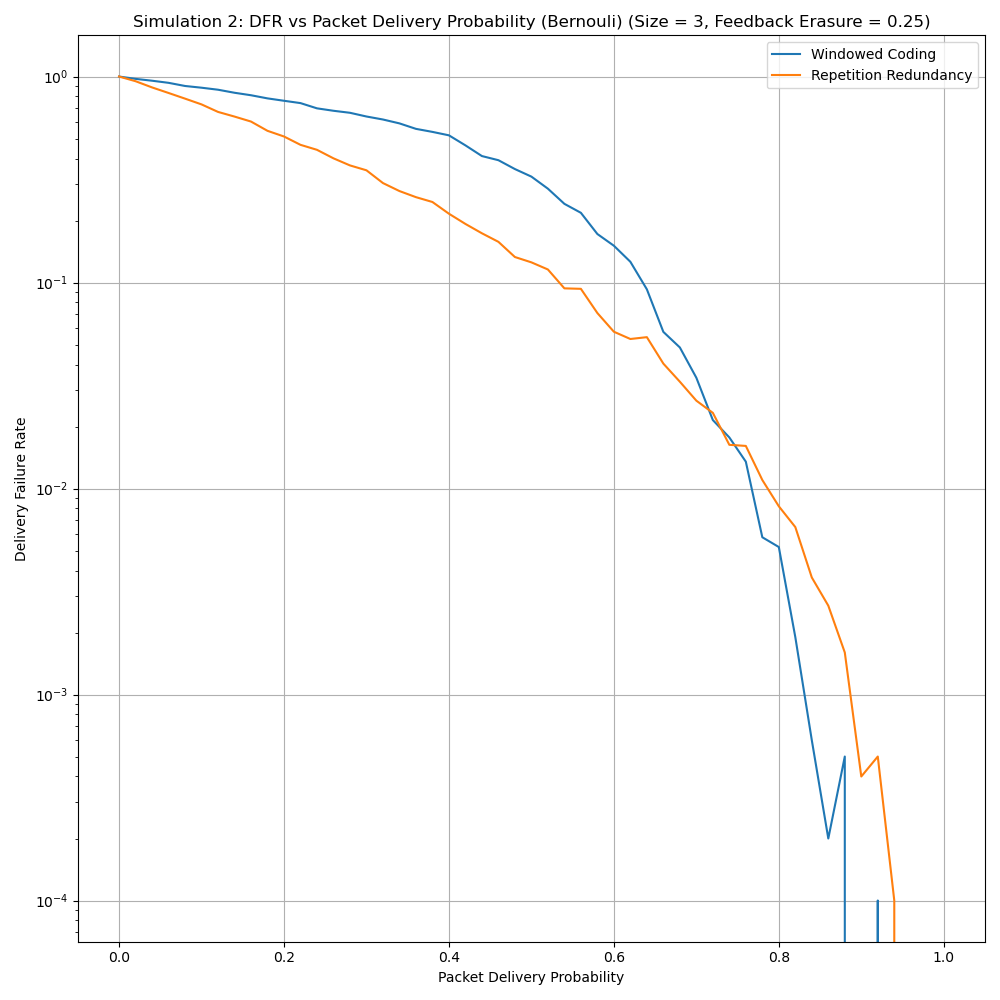
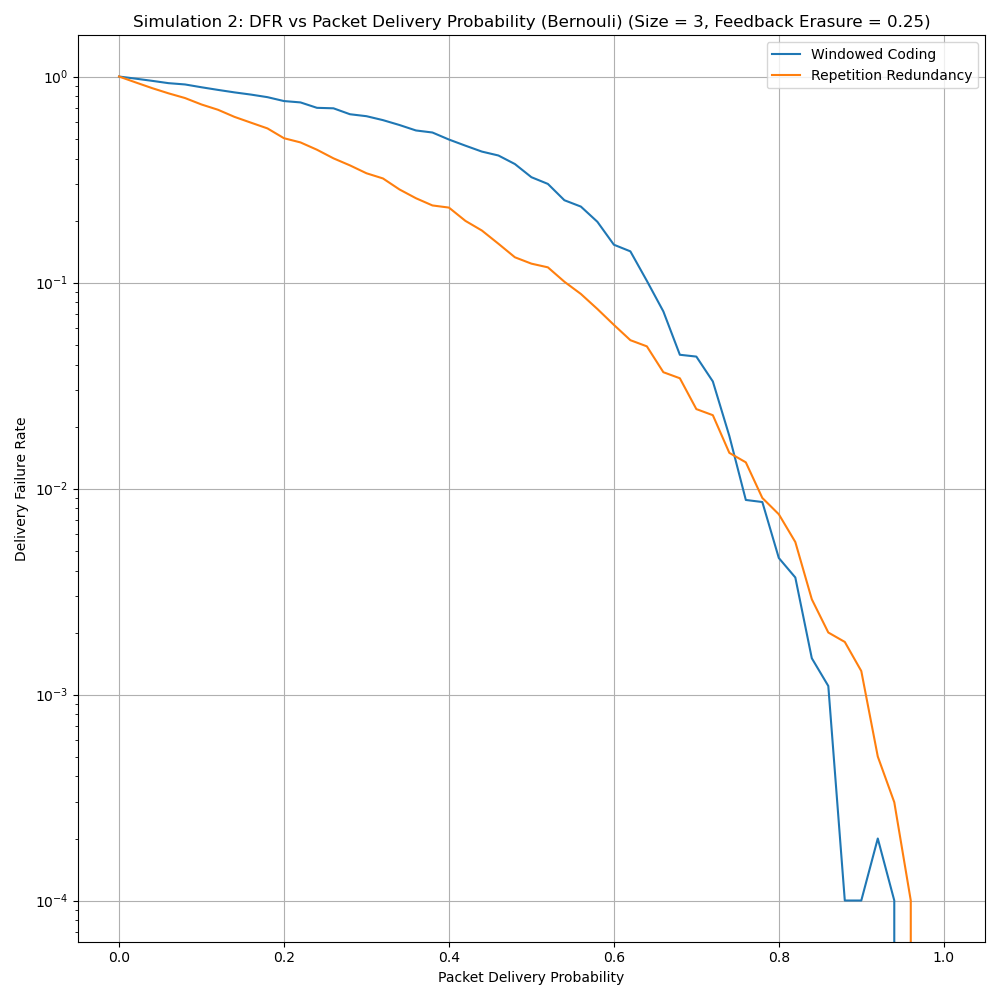
major bug fixes

diff --git a/receiver.py b/receiver.py
@@ -12,8 +12,8 @@ class Receiver():
         self.received_packet_list = [False] * num_messages
     
 
-    def update_packet_reception(self, packet_number, status):
-        self.received_packet_list[packet_number] = status
+    def update_packet_reception(self, packet_number, lost):
+        self.received_packet_list[packet_number] = not lost
 
     
     def receive_packet(self, packet_header, packet, size):
@@ -52,11 +52,11 @@ class Receiver():
 
     def send_feedback(self, packet_number, delay_tolerance):
         # Interval of interest starting position
-        lower = max(0, packet_number - delay_tolerance + 1)
+        lower = max(0, packet_number - delay_tolerance)
         
         try:
-            index = packet_number - self.received_messages_list.index(False, lower, packet_number + 1)
-            num_unreceived = (delay_tolerance - 1) - sum(self.received_messages_list[lower:packet_number]) 
+            index = packet_number - self.received_messages_list.index(False, lower, packet_number)
+            num_unreceived = (packet_number - lower) - sum(self.received_messages_list[lower:packet_number]) 
         except ValueError as _:
             index = None
         

diff --git a/system.py b/system.py
@@ -60,14 +60,15 @@ def system(
         if not lost:
             gateway.receive_packet(p_i_h, p_i, size)
         
-        if i % feedback_interval==0:
-            # TODO: If none of the last packets are missing what to do
-            feedback = gateway.send_feedback(i, delay_tolerance)
-            
-            if feedback:
-                lost = bernouli_erasure(erasure_prob_feedback)
-                if not lost:
-                    transmitter.store_feedback(i, feedback)
+            # The feedback is sent for each received packet
+            if i % feedback_interval==0:
+                # TODO: If none of the last packets are missing what to do
+                feedback = gateway.send_feedback(i, delay_tolerance)
+
+                if feedback:
+                    lost = bernouli_erasure(erasure_prob_feedback)
+                    if not lost:
+                        transmitter.store_feedback(i, feedback)
         
 
     # Analysis

diff --git a/simulation.py b/simulation.py
@@ -160,10 +160,6 @@ def run_simulations(simulation='all'):
         print("Simulation 3: DFR vs Feedback Reception Probability (Bernouli) (Size = 4, Erasure = 0.4)")
         print("###################################################")
 
-        # TODO: the probability of feedback in paper and for our case is different
-        # as our feedback itself is intermittent. So for some packets the probability of 
-        # feedback is 0, but for the paper it some fixed number. Our feedback erasure probability
-        # is the probability with which feedback is lost if sent.
         feedback_erasure = [i/50 for i in range(51)]
         feedback_success = [1 - i/50 for i in range(51)]
         dfr_icc = []

diff --git a/sender.py b/sender.py
@@ -88,8 +88,8 @@ class Sender():
 
         else:
             probs = [(num_missing - 1) * comb(packet_number - oldest_undelivered - num_missing, d - 1) /
-                        comb(packet_number - oldest_undelivered - 1, d) for d in range(1, packet_number - oldest_undelivered)]
-            coding_degree = probs.index(max(probs))
+                        comb(packet_number - oldest_undelivered - 1, d) for d in range(1, packet_number - oldest_undelivered - num_missing + 2)]
+            coding_degree = probs.index(max(probs)) + 1
             base_index = oldest_undelivered + 1
 
         coded_message = int('000000000', 2)
